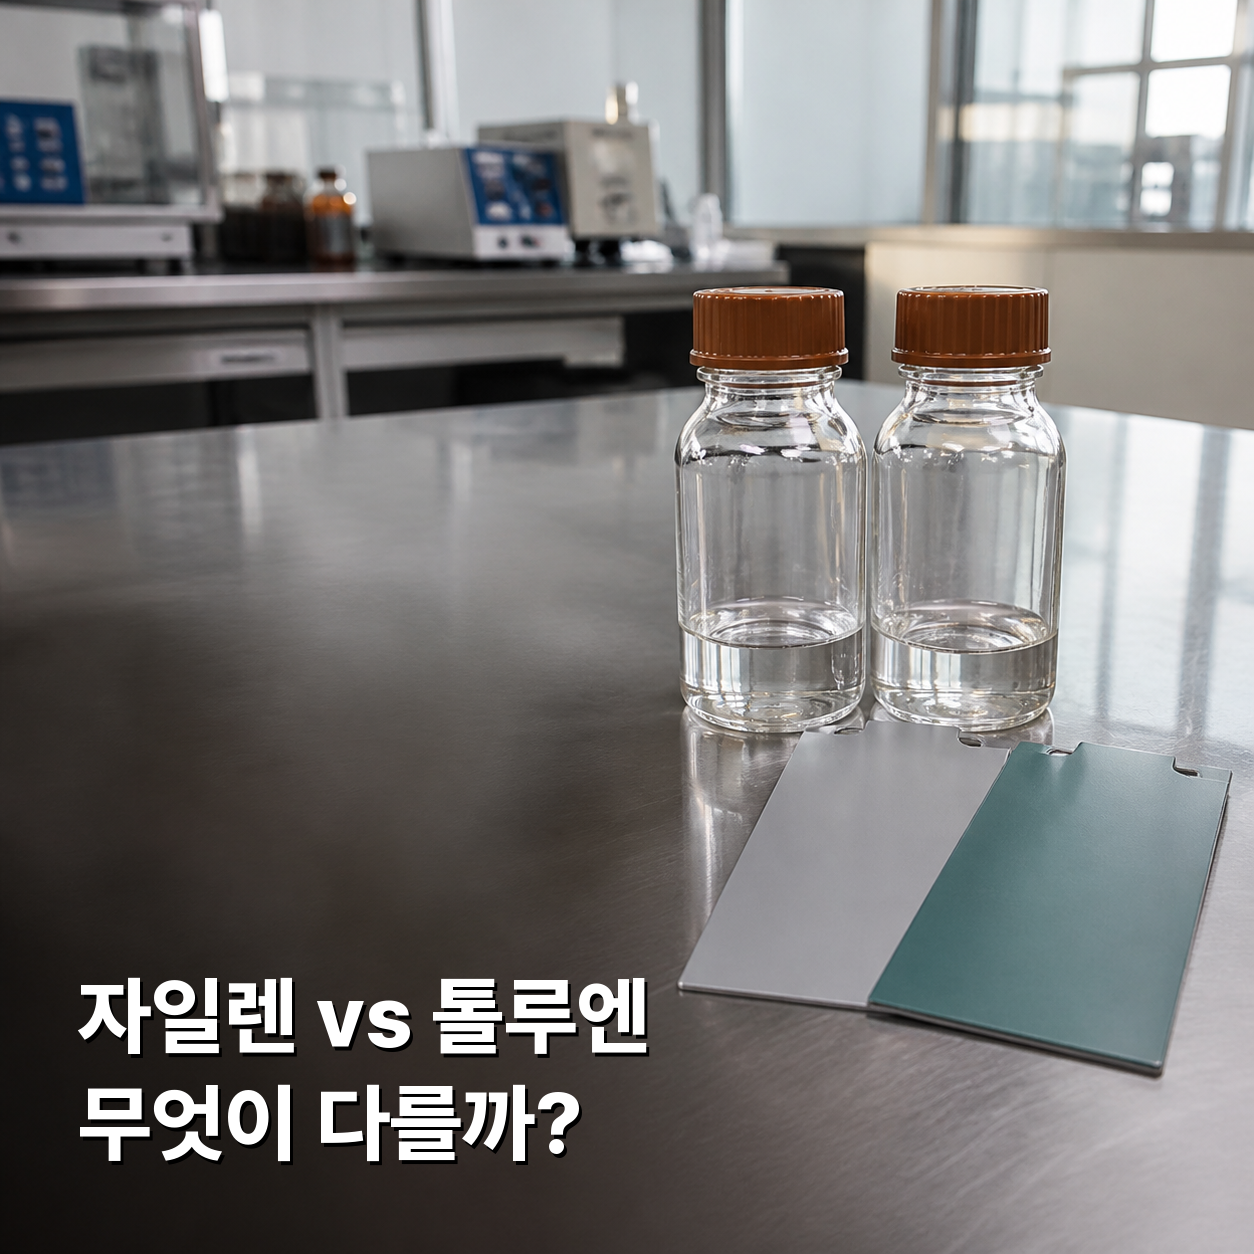
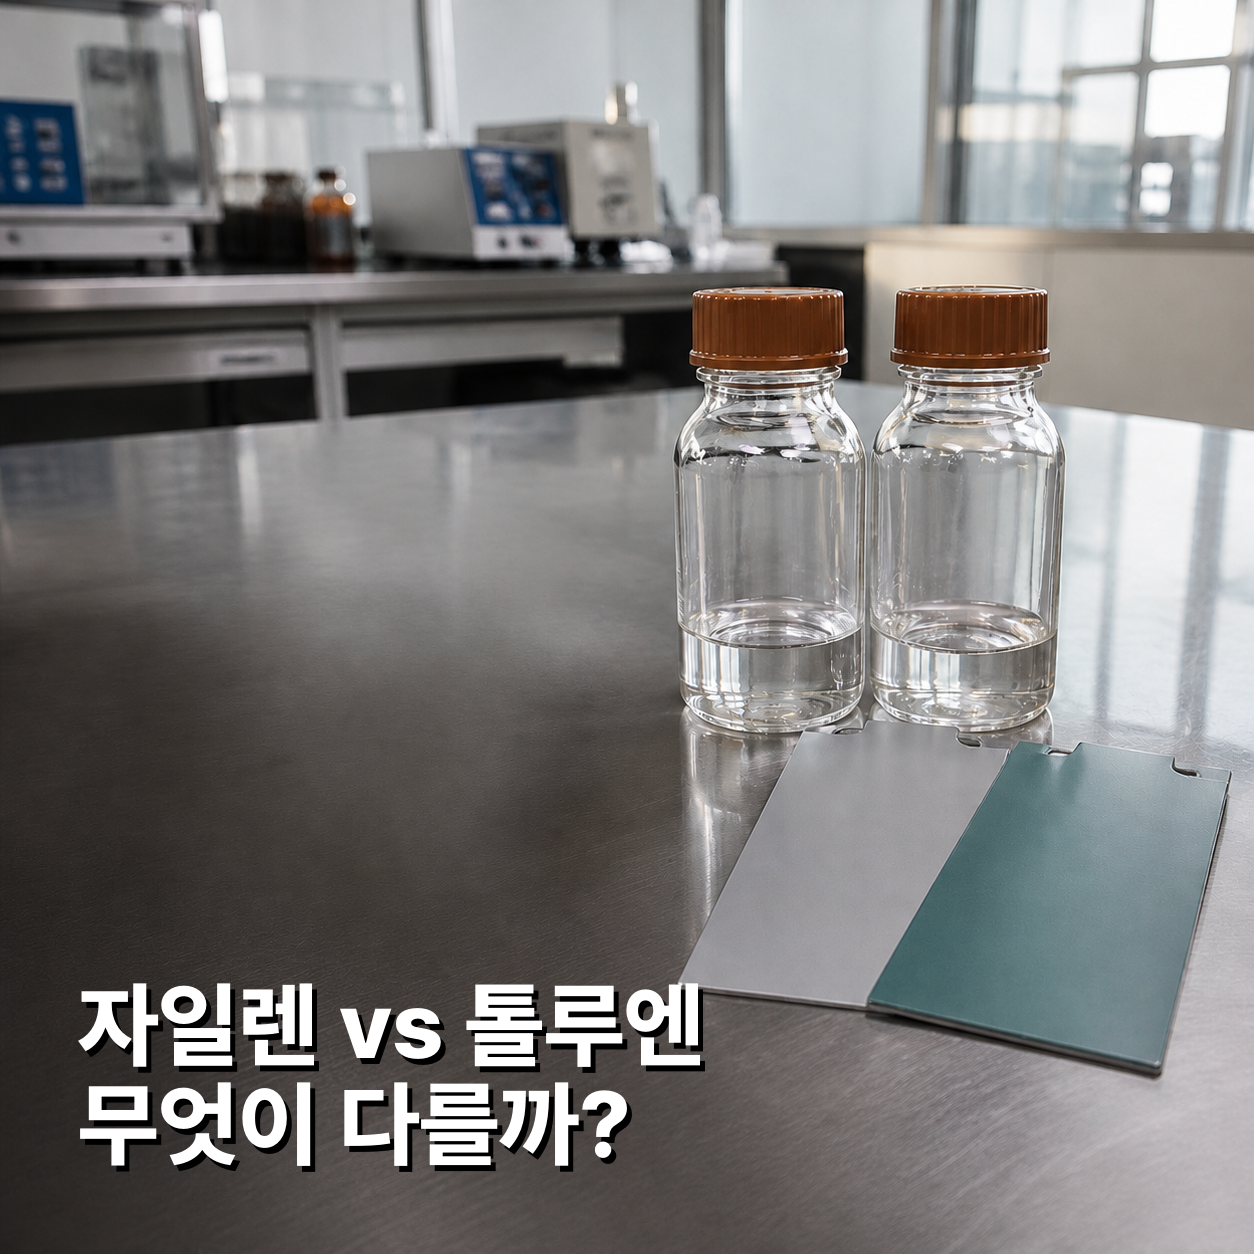
대표이미지 제목을 70pt로 통일

diff --git a/docs/WORKFLOW.md b/docs/WORKFLOW.md
@@ -36,7 +36,7 @@
 
 ## 8. 비공개 저장과 게시 후 검수
 
-게시 전에는 네이버 게시물 메인 제목 나눔고딕 32pt, 본문 나눔고딕 16pt·행간 200%, 소제목 나눔고딕 Bold(굵게) 21pt, 대표이미지 흰색 Pretendard ExtraBold 64pt를 확인한다. 마침표로 끝난 완결 문장 뒤에는 Enter 1번을 적용해 다음 문장을 새 문단에서 시작한다. 모든 소제목 앞에는 Enter 3번을 적용한다. 래미 스티커·이모티콘 이미지는 기존보다 20% 확대해 긴 변 약 168~198px로 사용한다. 대표이미지·본문 이미지·래미 이모티콘을 포함한 모든 미디어의 위와 아래에는 각각 Enter 2번을 정확히 적용한다. 모든 게시물에는 본문 핵심만 담은 `한줄정리` 1~2문장을 반드시 넣고, 제목과 요약 내용 전체는 굵게+기울임으로 적용한다. `함께 읽으면 좋은 글`이 있으면 한줄정리 아래에 배치하고, 마지막 요약 문장 뒤에 Enter 3번을 적용한다. 본문 마지막은 `굵게+기울임 한줄정리 및 요약 전체 → Enter 3번 → 함께 읽으면 좋은 글 제목·링크 → Enter 5번 → 본 콘텐츠에 사용된 이미지는 내용의 이해를 돕기 위해 AI로 생성되었습니다.` 순서로 구성하며, 요약에는 본문에 없는 새로운 주장·수치·제품 효능이나 미확인 내용을 추가하지 않는다. 관련 글이 없으면 한줄정리 뒤 Enter 5번과 AI 이미지 고지문으로 끝낸다.
+게시 전에는 네이버 게시물 메인 제목 나눔고딕 32pt, 본문 나눔고딕 16pt·행간 200%, 소제목 나눔고딕 Bold(굵게) 21pt, 대표이미지 흰색 Pretendard ExtraBold 70pt를 확인한다. 마침표로 끝난 완결 문장 뒤에는 Enter 1번을 적용해 다음 문장을 새 문단에서 시작한다. 모든 소제목 앞에는 Enter 3번을 적용한다. 래미 스티커·이모티콘 이미지는 기존보다 20% 확대해 긴 변 약 168~198px로 사용한다. 대표이미지·본문 이미지·래미 이모티콘을 포함한 모든 미디어의 위와 아래에는 각각 Enter 2번을 정확히 적용한다. 모든 게시물에는 본문 핵심만 담은 `한줄정리` 1~2문장을 반드시 넣고, 제목과 요약 내용 전체는 굵게+기울임으로 적용한다. `함께 읽으면 좋은 글`이 있으면 한줄정리 아래에 배치하고, 마지막 요약 문장 뒤에 Enter 3번을 적용한다. 본문 마지막은 `굵게+기울임 한줄정리 및 요약 전체 → Enter 3번 → 함께 읽으면 좋은 글 제목·링크 → Enter 5번 → 본 콘텐츠에 사용된 이미지는 내용의 이해를 돕기 위해 AI로 생성되었습니다.` 순서로 구성하며, 요약에는 본문에 없는 새로운 주장·수치·제품 효능이나 미확인 내용을 추가하지 않는다. 관련 글이 없으면 한줄정리 뒤 Enter 5번과 AI 이미지 고지문으로 끝낸다.
 
 기본값은 비공개다. 저장 후 실제 게시물 화면에서 다음을 다시 확인한다.
 

diff --git a/prompts/이미지생성_캐릭터활용_프롬프트.md b/prompts/이미지생성_캐릭터활용_프롬프트.md
@@ -50,11 +50,11 @@
 
 - 카테고리별 승인 템플릿이 아래 일반 캐릭터 규칙보다 우선한다.
 - `BYCHEM 인사이트`, `BYCHEM 솔루션`, `BYCHEM 시리즈` 썸네일은 실제 기업 촬영물 같은 현실적인 산업·연구·설비 사진을 기본으로 한다. 자연스러운 노출·화이트밸런스와 절제된 채도·대비·선명도를 사용하고 HDR, 네온 조명, 과도한 샤프닝, 인공적인 광택과 AI 특유의 부자연스러운 질감을 피한다.
-- 위 세 카테고리의 썸네일 제목은 흰색 Pretendard ExtraBold 800, 64pt로 왼쪽 아래에 안전 여백을 두고 배치한다. 제목 외 문구·라벨·숫자·로고·캐릭터는 별도 요청이 없으면 넣지 않는다.
+- 위 세 카테고리의 썸네일 제목은 흰색 Pretendard ExtraBold 800, 70pt로 왼쪽 아래에 안전 여백을 두고 배치한다. 제목 외 문구·라벨·숫자·로고·캐릭터는 별도 요청이 없으면 넣지 않는다.
 - 사용자가 대표사진 캐릭터를 별도로 요청한 경우에만 캐릭터를 전체 이미지 높이의 약 20~40%로 배치하고 장면 속 행동이 자연스럽게 보이도록 한다.
 - 별도 요청으로 캐릭터를 넣을 때도 큰 제목과 핵심 배경을 가리지 않는 모서리 또는 측면에 둔다.
 - 제목은 이미지 위에 직접 올리고 띠·박스·구분선을 사용하지 않는다.
-- `BYCHEM 인사이트`, `BYCHEM 솔루션`, `BYCHEM 시리즈`는 흰색 Pretendard ExtraBold 800, 64pt를 기본으로 한다. 다른 카테고리는 승인된 카테고리 템플릿을 따른다.
+- `BYCHEM 인사이트`, `BYCHEM 솔루션`, `BYCHEM 시리즈`는 흰색 Pretendard ExtraBold 800, 70pt를 기본으로 한다. 다른 카테고리는 승인된 카테고리 템플릿을 따른다.
 - 같은 카테고리는 폰트, 굵기, 글자 크기, 위치, 줄바꿈, 기본색, 외곽선과 그림자를 동일하게 유지한다.
 - 제목 색상은 카테고리 기본색으로 통일하고, 변화가 필요하면 승인된 강조어 한 곳에만 하이라이트를 적용한다.
 - 흰 외곽선과 미세한 그림자는 가독성 보조 목적으로만 사용한다.

diff --git a/docs/발행운영규칙.md b/docs/발행운영규칙.md
@@ -98,7 +98,7 @@
 - 실제 기업이 현장에서 촬영한 듯한 현실적인 산업·연구·설비 사진을 배경으로 사용한다.
 - 자연스러운 노출과 화이트밸런스, 절제된 채도·대비·선명도를 유지한다.
 - 과도한 HDR, 네온 색감, 과도한 샤프닝, 인공적인 광택과 AI 특유의 부자연스러운 디테일을 피한다.
-- 제목은 흰색 Pretendard ExtraBold 800, 64pt로 왼쪽 아래에 안전 여백을 두고 배치한다.
+- 제목은 흰색 Pretendard ExtraBold 800, 70pt로 왼쪽 아래에 안전 여백을 두고 배치한다.
 - 제목 외 보조 문구·라벨·숫자·로고·캐릭터는 담당자가 별도로 요청하지 않는 한 넣지 않는다.
 - 제목은 배경 사진 위에 직접 배치하고 색 띠·박스·구분선을 사용하지 않는다.
 
@@ -129,7 +129,7 @@
 - 네이버 게시물 메인 제목은 나눔고딕 32pt로 사용한다.
 - 본문은 나눔고딕 16pt·행간 200%, 소제목은 나눔고딕 Bold(굵게) 21pt를 사용한다.
 - 모든 소제목 앞에는 바로 앞 요소와 관계없이 빈 줄 3개, 즉 Enter 3번을 적용한다.
-- 대표이미지 제목은 흰색 Pretendard ExtraBold 64pt로 고정한다.
+- 대표이미지 제목은 흰색 Pretendard ExtraBold 70pt로 고정한다.
 - 소제목과 바로 뒤 첫 설명 문단은 하나의 고정 텍스트 그룹이다. 둘 사이에는 빈 문단이나 다른 요소를 넣지 않으며, 같은 소제목에 속한 설명 문단 사이에도 빈 문단을 넣지 않고 연속 문단으로 붙인다.
 - 이미지·이모티콘·스티커는 연속 배치하지 않는다. 빈 줄만 사이에 있는 경우도 연속 배치로 판단하고 두 미디어 사이에는 의미 있는 본문을 둔다.
 - 미디어 개수는 고정하지 않고 내용 전달에 필요한 만큼 사용한다.

diff --git a/prompts/BYCHEM_NAVERBLOG_MASTER_PROMPT.md b/prompts/BYCHEM_NAVERBLOG_MASTER_PROMPT.md
@@ -1,6 +1,6 @@
 # BYCHEM 네이버 블로그 마스터 프롬프트
 
-- 버전: 1.12
+- 버전: 1.13
 - 최종 개정: 2026-09-01
 
 아래 지침을 이 프로젝트의 최상위 운영 규칙으로 사용한다. 개별 작업 요청과 충돌하지 않는 한 생략하거나 임의로 바꾸지 않는다.
@@ -98,7 +98,7 @@ IPA 글의 마무리는 다음 방향을 참고한다.
 - 제목·본문·소제목·이미지·이모티콘은 모두 가운데 정렬한다.
 - 네이버 게시물 메인 제목은 나눔고딕 32pt로 사용한다.
 - 본문은 나눔고딕 16pt·행간 200%, 소제목은 나눔고딕 Bold(굵게) 21pt를 사용한다.
-- 대표이미지 제목은 흰색(#FFFFFF) Pretendard ExtraBold 800, 64pt로 제작한다.
+- 대표이미지 제목은 흰색(#FFFFFF) Pretendard ExtraBold 800, 70pt로 제작한다.
 - 모든 소제목 앞에는 바로 앞 요소와 관계없이 빈 줄 3개, 즉 Enter 3번을 적용한다.
 - 소제목과 바로 뒤 첫 설명 문단은 하나의 고정 텍스트 그룹이다. 둘 사이에는 빈 문단이나 미디어를 넣지 않으며, 같은 소제목에 속한 설명 문단 사이에도 빈 문단을 넣지 않는다. 설명 문단은 빈 줄 없이 연속 문단으로 붙인다.
 - 이미지·이모티콘·스티커는 위아래로 연속 배치하지 않는다. 빈 줄만 사이에 있는 경우도 연속 배치로 판단하며 두 미디어 사이에는 의미 있는 본문 텍스트를 반드시 둔다.

diff --git a/docs/CHANGELOG.md b/docs/CHANGELOG.md
@@ -1,5 +1,12 @@
 # 운영 규칙 변경 이력
 
+## 2026-09-01 · 마스터 프롬프트 1.13 · 대표이미지 제목 70pt 통일
+
+- 대표이미지 제목을 흰색 Pretendard ExtraBold 800, 70pt로 변경
+- BYCHEM 인사이트·솔루션·시리즈 대표이미지의 왼쪽 아래 배치 원칙 유지
+- 자일렌·톨루엔 및 용제 증발속도 대표이미지를 70pt 버전으로 교체
+
+
 ## 2026-09-01 · 마스터 프롬프트 1.12 · 래미·캡션·문장 서식 강화
 
 - 새 게시물마다 스티커와 별도로 래미가 기술 장면에 통합된 본문 이미지 최소 1컷 적용
